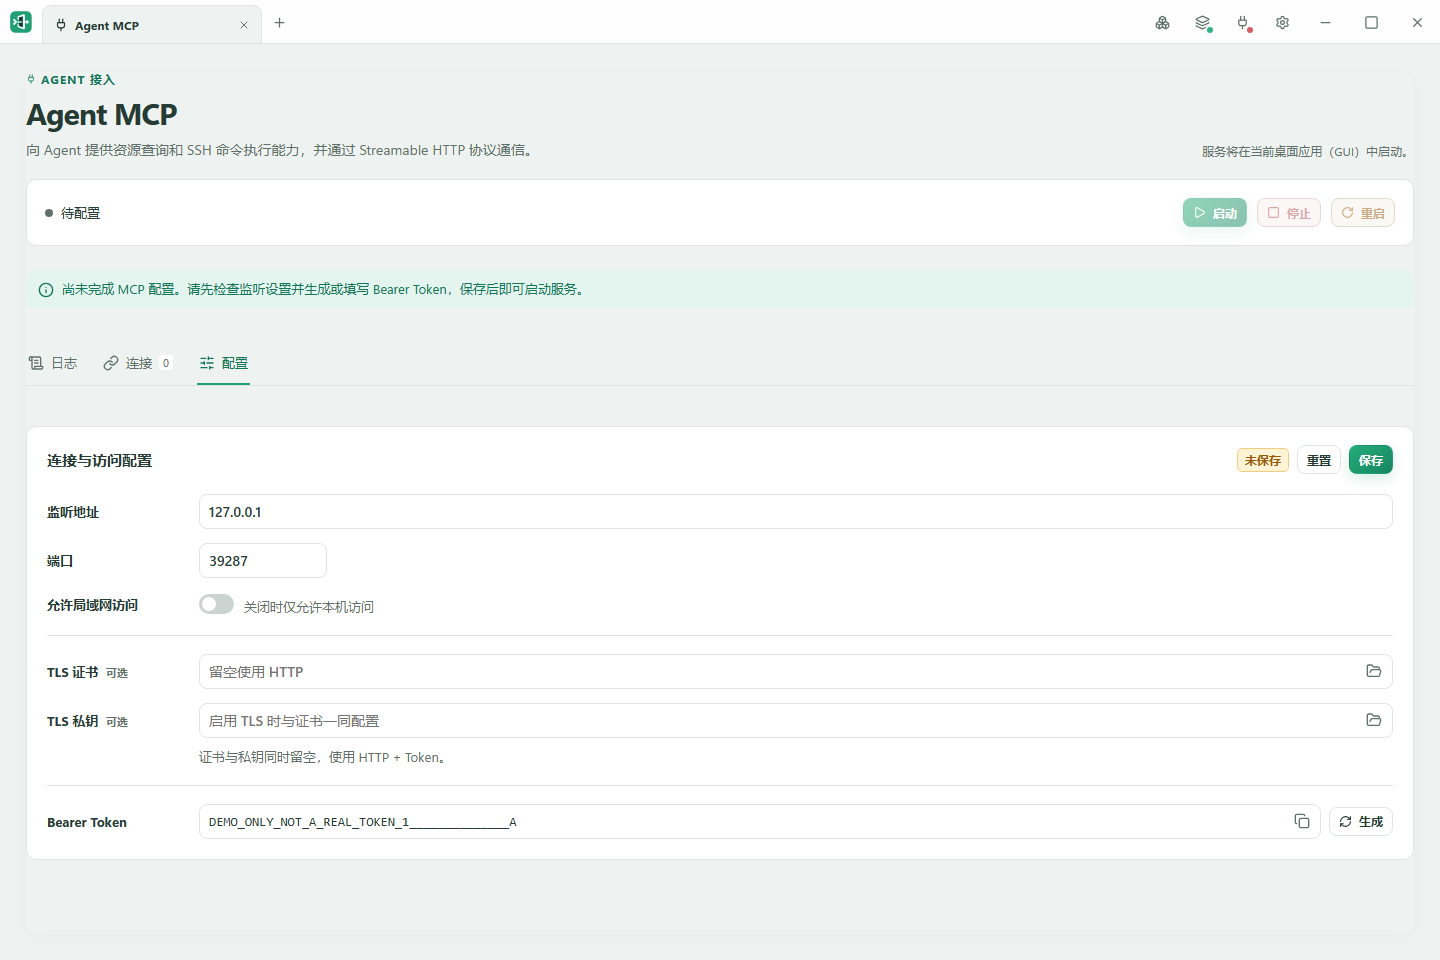
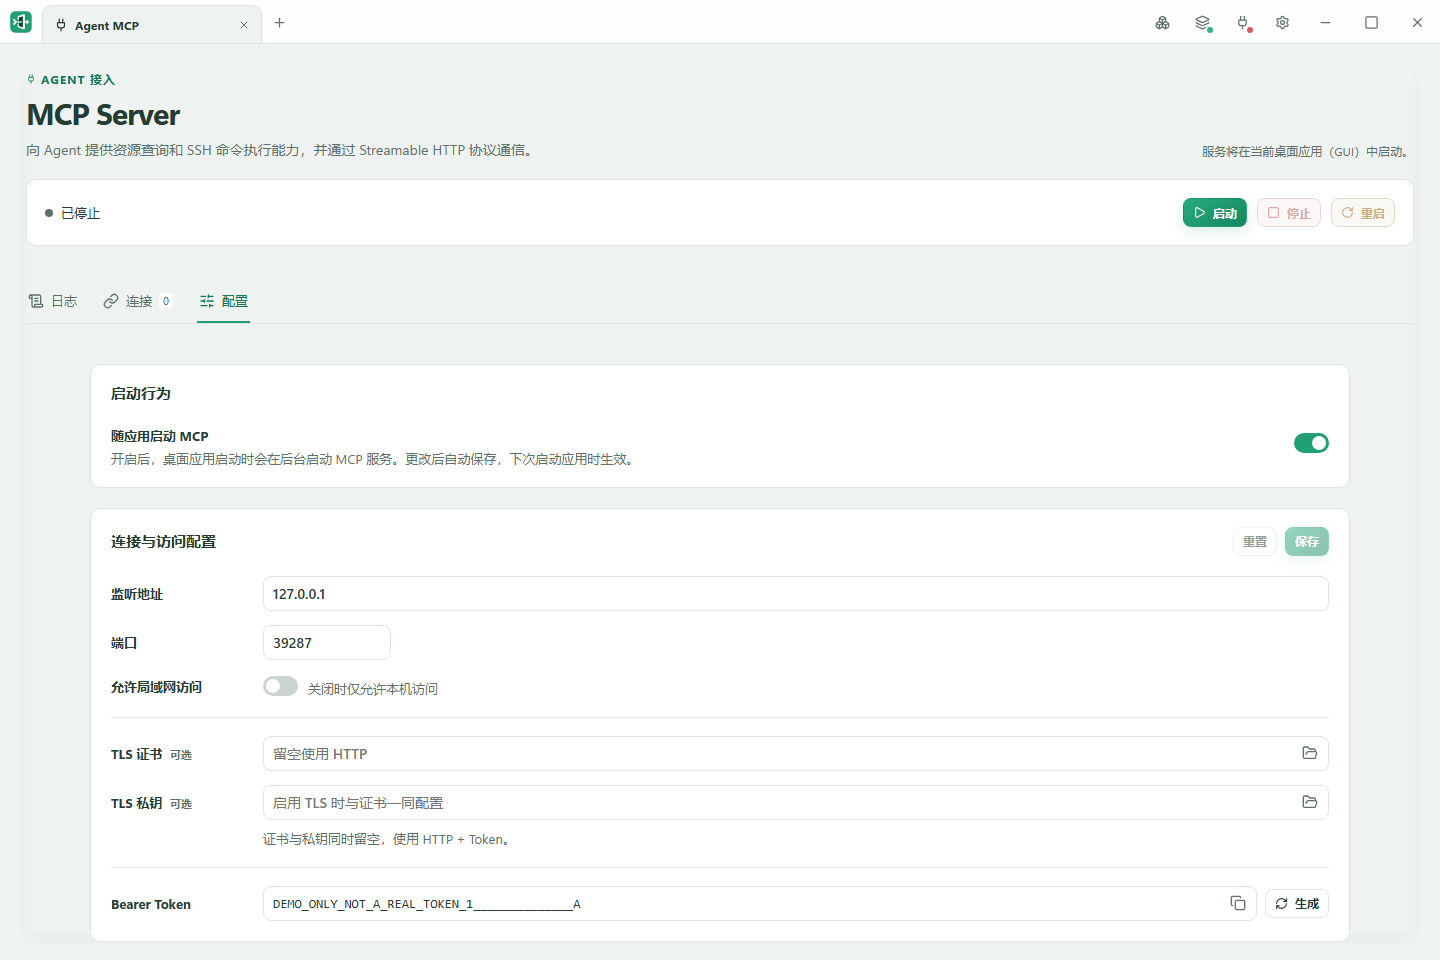
docs(mcp): 更新自动启动与日志布局的指南截图
更新 MCP Server 的配置、日志和连接截图及操作指南，展示配置限宽、自动启动开关和与级别按钮同排的日志提示。

截图流程在保存连接配置并开启自动启动后展示配置页，使用明确标识的演示 Token，并增加卡片完整性和提示位置检查，避免页头被滚动裁切。

diff --git a/docs/manual/agent-mcp.md b/docs/manual/agent-mcp.md
@@ -1,6 +1,6 @@
-# 在 GUI 中使用 Agent MCP
+# 在 GUI 中使用 MCP Server
 
-点击窗口顶部的 **MCP 插头图标**，打开独立 Agent MCP Tab。图标右下角的绿灯表示服务运行中，红灯表示未运行；悬停可查看状态。重复点击会回到同一 Tab；关闭 Tab 不停止服务。GUI 默认不自动启动 MCP，可在配置页开启自动启动；退出应用会停止服务。页头右侧说明哪个进程提供服务，区分当前桌面应用、其他桌面应用或命令行进程。
+点击窗口顶部的 **MCP 插头图标**，打开独立 Agent MCP Tab，页面标题为 **MCP Server**。图标右下角的绿灯表示服务运行中，红灯表示未运行；悬停可查看状态。重复点击会回到同一 Tab；关闭 Tab 不停止服务。GUI 默认不自动启动 MCP，可在配置页开启自动启动；退出应用会停止服务。页头右侧说明哪个进程提供服务，区分当前桌面应用、其他桌面应用或命令行进程。
 
 模块内按“日志、连接、配置”排列，已配置时默认进入日志页。启动、停止、重启分别用绿色、红色、琥珀色区分，不可用的按钮会淡化显示。
 
@@ -8,14 +8,16 @@
 
 ## 配置与启动
 
+配置页上方是“启动行为”，下方是“连接与访问配置”。两张卡片左右对齐，沿用设置模块的宽度与留白方式：宽窗口下达到最大宽度后不再拉伸，较窄窗口下随可用空间缩放。
+
 1. 先在 Profile 中完成 JumpServer 登录。
 2. 首次使用、尚未保存 Bearer Token 时，MCP 自动进入“配置”页并显示引导。检查监听地址和端口，输入或生成 Bearer Token，然后保存；仅生成而未保存时仍不能启动。默认只允许本机访问；TLS 证书与私钥同时留空时使用 HTTP。
 3. 点击公共区域的“启动”，把显示的实际服务地址和配置中的 Token 提供给 Agent。
 4. “重置”和“保存”位于配置表单右上角；有修改时，“重置”左侧会出现琥珀色“未保存”标签，保存或重置后隐藏。修改配置后需要保存并重启服务才生效。“重置”只恢复上次保存值，运行中的地址不会随草稿变化。
 
-![MCP 首次配置：生成演示 Token 后尚未保存，启动按钮不可用](../screenshots/mcp-01-config.png)
+![MCP 配置：两张卡片左右留白，连接配置已保存，随应用启动开关已开启，当前服务尚未启动](../screenshots/mcp-01-config.png)
 
-图中停在生成 Token 后、保存前，右上角的“未保存”表示还需要点击“保存”。实际使用时请在自己的应用中生成 Token。
+图中已保存连接配置，因此没有“未保存”标签，表单的“重置”和“保存”按钮呈禁用状态。“随应用启动 MCP”是演示中手动开启的，默认仍为关闭；它只影响下次应用启动，所以当前服务仍显示“已停止”。本次要使用服务，点击上方“启动”。实际使用时请在自己的应用中生成 Token，图中的 `DEMO_ONLY` 值不能用于真实服务。
 
 存在活动任务时，停止或重启前会显示确认。无法确认远端命令结束时，服务会提示结果未知；应先核对服务器状态，不能直接重跑。若服务由其他进程拥有，请在那个宿主中管理连接和日志。
 
@@ -27,11 +29,13 @@
 
 ## 查看运行日志
 
-“日志”页是只读文本流。精简显示服务、连接和异常；标准增加命令受理、结束与取消，以及 MCP 工具调用摘要，资源查询包含返回数量、分页状态和耗时；详细增加命令输入和查询条件。切换级别只影响后续日志，已有行保持原样，不补显示此前过滤的查询条件。命令的非零退出码仍是正常返回；日志不显示 stdout/stderr 或查询结果正文，Agent 通过任务接口读取仍保留的输出。
+“日志”页顶部的“输出级别”提供精简、标准和详细三个选项，右侧同一行显示“仅影响后续日志，已显示的内容保持不变”，工具栏右端是“暂停显示”和“清空显示”。提示不再单独占行，为下方日志保留更多空间。
+
+日志采用只读文本流。精简显示服务、连接和异常；标准增加命令受理、结束与取消，以及 MCP 工具调用摘要，资源查询包含返回数量、分页状态和耗时；详细增加命令输入和查询条件。切换级别只影响后续日志，已有行保持原样，不补显示此前过滤的查询条件。命令的非零退出码仍是正常返回；日志不显示 stdout/stderr 或查询结果正文，Agent 通过任务接口读取仍保留的输出。
 
 服务信息查询、连接／任务查询、重复请求返回原结果、重复关闭和取消已结束任务也会留下调用记录。SDK 在进入业务处理前拒绝的工具调用记录为 `MCP_REJECTED`，具体错误由 MCP 响应提供。这里记录的是工具调用与业务事件，不是每个 HTTP 请求或协议初始化消息的访问日志。
 
-![MCP 详细日志：资源查询摘要和条件、命令受理、输入与完成状态](../screenshots/mcp-02-logs.png)
+![MCP 详细日志：级别提示与按钮同排，下方显示资源查询摘要和条件、命令受理、输入与完成状态](../screenshots/mcp-02-logs.png)
 
 图中先切换为“详细”，再启动服务接收样例日志。`test -f` 返回 `exit=1`，执行状态仍是 `completed`；这表示命令已正常返回，条件未成立，不属于 SSH 发送或结果接收失败。
 

diff --git a/README.md b/README.md
@@ -22,7 +22,7 @@ JumpAccess 是一个面向 [JumpServer](https://github.com/jumpserver/jumpserver
 
 ## Agent 接入（开发中）
 
-当前源码中的 GUI 通过顶部“MCP”快捷入口打开独立 Agent MCP Tab，依次提供日志、连接和配置三个页面，以及 Streamable HTTP 服务的手动启动、停止和重启。关闭 Tab 不停止服务。Token 与监听设置统一保存至 `config.toml`，配置修改保存后在下次启动或重启时生效。多个 Agent 可以共用同一服务查询 Profile、组织、资产、授权账号和 Alias；需要先完成相应 Profile 的 JumpServer 登录。操作步骤见 [GUI Agent MCP](docs/manual/agent-mcp.md)。
+当前源码中的 GUI 通过顶部“MCP”快捷入口打开独立 Agent MCP Tab，页头显示 MCP Server，依次提供日志、连接和配置三个页面，以及 Streamable HTTP 服务的手动启动、停止和重启。关闭 Tab 不停止服务。Token 与监听设置统一保存至 `config.toml`，配置修改保存后在下次启动或重启时生效。多个 Agent 可以共用同一服务查询 Profile、组织、资产、授权账号和 Alias；需要先完成相应 Profile 的 JumpServer 登录。操作步骤见 [GUI MCP Server 指南](docs/manual/agent-mcp.md)。
 
 当前开发版同时提供 SSH 连接复用、非交互命令执行、长任务与输出查询、超时和取消。工作目录与环境随命令传入；同一共享连接同时执行一条命令。默认远端时限要求目标具备已验证的 POSIX/Python 3 能力；显式选择本地时限时，停止跟踪不代表远端已停止。CLI MCP 命令尚未实现。
 
@@ -264,7 +264,7 @@ npm run screenshots -- --only=mcp
 npm run screenshots -- --only=mcp --check
 ```
 
-MCP 截图涵盖首次配置、详细日志和连接管理，并嵌入 [GUI Agent MCP 指南](docs/manual/agent-mcp.md)。截图通过真实界面生成 Token、保存配置、切换详细级别后启动服务；日志使用终端样式中的系统等宽字体、14px 字号和 1.4 倍行高。MCP 截图中的 Token 显式标为 `DEMO_ONLY`。
+MCP 截图涵盖配置与自动启动、详细日志和连接管理，并嵌入 [GUI MCP Server 指南](docs/manual/agent-mcp.md)。脚本从首次配置场景出发，通过真实界面生成 Token、保存配置并开启“随应用启动 MCP”；第一张图完整展示页头及两张限宽卡片，服务仍处于停止状态。随后切换详细级别并手动启动服务，展示同排的级别提示、样例日志和连接。日志使用终端样式中的系统等宽字体、14px 字号和 1.4 倍行高。MCP 截图中的 Token 显式标为 `DEMO_ONLY`。
 
 截图包含[快速连接搜索结果](docs/screenshots/quick-connect.png)：打开快速连接，输入 `prod`，展示匹配的多个别名和资产、登录账号及 SSH/SFTP 入口。
 

diff --git a/docs/manual/README.md b/docs/manual/README.md
@@ -6,6 +6,6 @@
 - [CLI 入门：从安装到第一次 SSH 连接](cli-quick-start.md)：安装 `jumpctl`，完成浏览器认证，依次查询组织、资产和账号，绑定别名，再选择 `jssh` 快捷命令或 OpenSSH 的 `ssh` 命令连接。
 - [SSH 终端内上传和下载文件](file-transfer.md)：使用桌面客户端或 `jumpctl ssh` 的 `rz` / `sz` 传输文件，设置下载目录，查看进度并处理常见问题。
 - [CLI 命令参考](../cli.md)：查阅完整命令和参数。
-- [在 GUI 中使用 Agent MCP](agent-mcp.md)：配置和启动服务，查看共享连接与文本日志，处理停止、重启和结果过期。
+- [在 GUI 中使用 MCP Server](agent-mcp.md)：配置并手动或随应用自动启动服务，查看共享连接与文本日志，处理停止、重启和结果过期。
 
 [返回项目首页](../../README.md)
